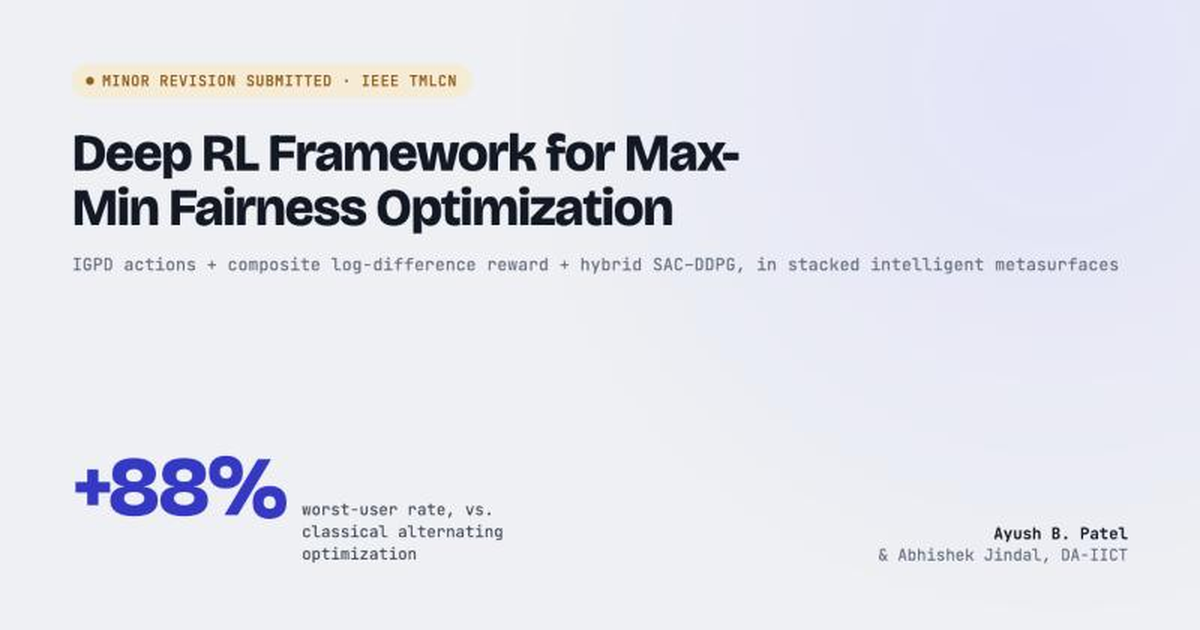
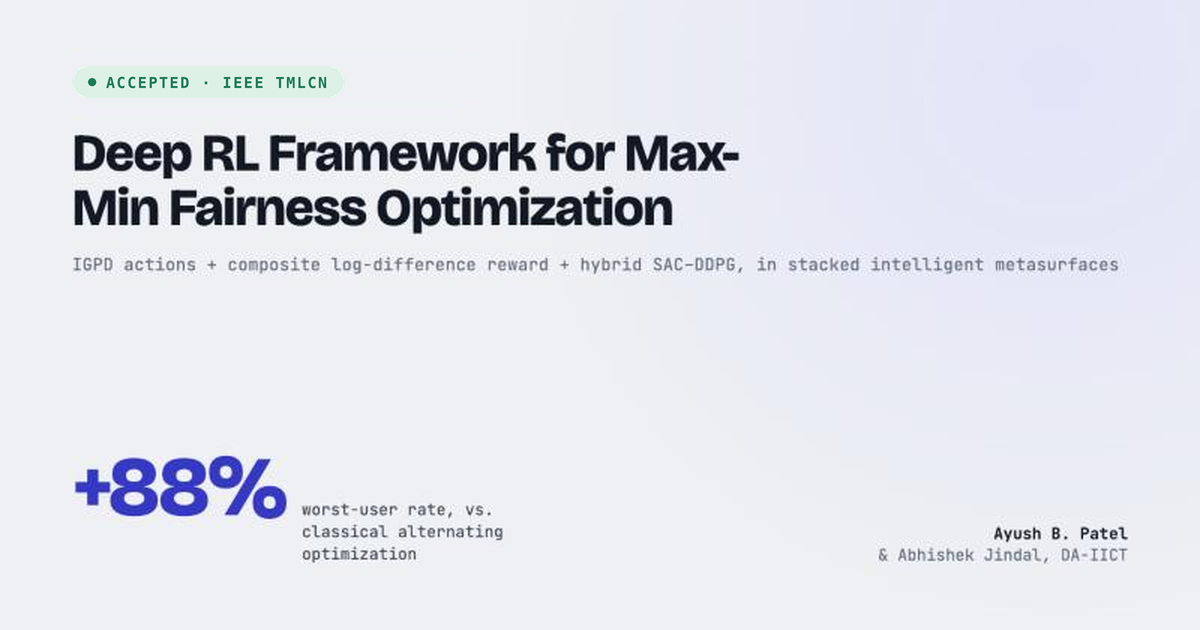
Update paper status: accepted at IEEE TMLCN

Changed region(s): [[0.0617, 0.0905, 0.4008, 0.1508]]

diff --git a/docs/index.html b/docs/index.html
@@ -4,15 +4,15 @@
 <meta charset="UTF-8">
 <meta name="viewport" content="width=device-width, initial-scale=1">
 <title>Max-Min Fairness RL</title>
-<meta name="description" content="A deep RL framework for max-min fairness in stacked intelligent metasurfaces — IGPD actions, a composite log-difference reward, and a hybrid SAC-DDPG actor, improving worst-user rate 88% over classical alternating optimization. Minor revision submitted, IEEE TMLCN.">
+<meta name="description" content="A deep RL framework for max-min fairness in stacked intelligent metasurfaces — IGPD actions, a composite log-difference reward, and a hybrid SAC-DDPG actor, improving worst-user rate 88% over classical alternating optimization. Accepted at IEEE TMLCN.">
 <meta property="og:type" content="article">
 <meta property="og:title" content="Deep RL Framework for Max-Min Fairness Optimization">
-<meta property="og:description" content="A deep RL framework for max-min fairness in stacked intelligent metasurfaces — IGPD actions, a composite log-difference reward, and a hybrid SAC-DDPG actor, improving worst-user rate 88% over classical alternating optimization. Minor revision submitted, IEEE TMLCN.">
+<meta property="og:description" content="A deep RL framework for max-min fairness in stacked intelligent metasurfaces — IGPD actions, a composite log-difference reward, and a hybrid SAC-DDPG actor, improving worst-user rate 88% over classical alternating optimization. Accepted at IEEE TMLCN.">
 <meta property="og:image" content="https://ayush010104.github.io/sim-maxmin-fairness-drl/assets/og-preview.png">
 <meta property="og:url" content="https://ayush010104.github.io/sim-maxmin-fairness-drl/">
 <meta name="twitter:card" content="summary_large_image">
 <meta name="twitter:title" content="Deep RL Framework for Max-Min Fairness Optimization">
-<meta name="twitter:description" content="A deep RL framework for max-min fairness in stacked intelligent metasurfaces — IGPD actions, a composite log-difference reward, and a hybrid SAC-DDPG actor, improving worst-user rate 88% over classical alternating optimization. Minor revision submitted, IEEE TMLCN.">
+<meta name="twitter:description" content="A deep RL framework for max-min fairness in stacked intelligent metasurfaces — IGPD actions, a composite log-difference reward, and a hybrid SAC-DDPG actor, improving worst-user rate 88% over classical alternating optimization. Accepted at IEEE TMLCN.">
 <meta name="twitter:image" content="https://ayush010104.github.io/sim-maxmin-fairness-drl/assets/og-preview.png">
 <link rel="preconnect" href="https://fonts.googleapis.com">
 <link rel="preconnect" href="https://fonts.gstatic.com" crossorigin>
@@ -79,6 +79,12 @@ h1,h2,h3{font-family:var(--display); letter-spacing:-.02em; text-wrap:balance; m
 .fa-tag{font-size:8.5px; font-weight:700; letter-spacing:.04em; text-transform:uppercase; color:var(--accent); background:var(--accent-soft); padding:2px 6px; border-radius:5px; margin:0 6px; vertical-align:middle; white-space:nowrap}
 .paper-link{display:inline-flex; align-items:center; gap:5px; font-family:var(--mono); font-size:11.5px; font-weight:600; color:var(--accent); background:var(--accent-soft); padding:6px 12px; border-radius:999px; text-decoration:none; white-space:nowrap}
 .paper-link:hover{opacity:.82}
+
+.accept-banner{display:flex; align-items:flex-start; gap:12px; margin:22px 0 4px; padding:13px 18px; background:var(--ok-soft); border:1px solid color-mix(in srgb, var(--ok) 32%, transparent); border-left:4px solid var(--ok); border-radius:10px; color:var(--ink); font-size:15px; line-height:1.5}
+.accept-banner strong{color:var(--ok); font-weight:700}
+.accept-banner svg{flex:none; width:20px; height:20px; margin-top:2px; color:var(--ok)}
+.accepted-badge{display:inline-flex; align-items:center; gap:7px; font-family:var(--mono); font-size:12px; font-weight:700; letter-spacing:.02em; color:var(--ok); background:var(--ok-soft); border:1px solid color-mix(in srgb, var(--ok) 38%, transparent); padding:7px 14px; border-radius:999px; white-space:nowrap; box-shadow:0 0 0 4px color-mix(in srgb, var(--ok) 13%, transparent)}
+.accepted-badge svg{width:14px; height:14px; flex:none}
 .authors-card{display:flex; flex-direction:column; align-items:center; gap:3px}
 .authors-card-name{font-family:var(--mono); font-size:14px; color:var(--ink); font-weight:650}
 .authors-card .fa-tag{margin:5px 0}
@@ -235,6 +241,8 @@ footer{padding-block:28px 40px; font-family:var(--mono); font-size:11.5px; color
 <div class="wrap">
   <div class="mark">Ayush B. Patel<span>.</span></div>
 
+  <div class="accept-banner" role="note"><svg viewBox="0 0 20 20" fill="none" stroke="currentColor" stroke-width="2.4" stroke-linecap="round" stroke-linejoin="round" aria-hidden="true"><circle cx="10" cy="10" r="8.2"/><path d="M6.3 10.3l2.6 2.6 4.8-5.2"/></svg><span><strong>Accepted for publication</strong> in IEEE Transactions on Machine Learning in Communications and Networking (TMLCN).</span></div>
+
   <header class="hero">
     <h1>Deep RL Framework for Max-Min Fairness Optimization</h1>
     <div class="hero-grid">
@@ -246,7 +254,7 @@ footer{padding-block:28px 40px; font-family:var(--mono); font-size:11.5px; color
         <div class="fa-tag">first author</div>
         <div class="authors-card-co">&amp; Abhishek Jindal</div>
         <div class="authors-card-aff">DAIICT</div>
-        <span class="paper-link" style="cursor:default">Minor revision submitted &middot; IEEE TMLCN</span>
+        <span class="accepted-badge"><svg viewBox="0 0 20 20" fill="none" stroke="currentColor" stroke-width="2.4" stroke-linecap="round" stroke-linejoin="round" aria-hidden="true"><circle cx="10" cy="10" r="8.2"/><path d="M6.3 10.3l2.6 2.6 4.8-5.2"/></svg>Accepted &middot; IEEE TMLCN</span>
       </div>
     </div>
   </header>
@@ -572,8 +580,8 @@ footer{padding-block:28px 40px; font-family:var(--mono); font-size:11.5px; color
 
   <!-- ============== CLOSING ============== -->
   <section class="closing">
-    <span class="pill">IEEE TMLCN &middot; minor revision submitted</span>
-    <p>Across extensive simulations, the framework outperformed both classical alternating-optimization solvers and existing DRL baselines by a wide margin, including an 88% improvement in the worst-user rate over the standard optimization approach. The minor revision has been submitted to IEEE Transactions on Machine Learning in Communications and Networking.</p>
+    <span class="pill">IEEE TMLCN &middot; accepted</span>
+    <p>Across extensive simulations, the framework outperformed both classical alternating-optimization solvers and existing DRL baselines by a wide margin, including an 88% improvement in the worst-user rate over the standard optimization approach. The paper has been accepted for publication in IEEE Transactions on Machine Learning in Communications and Networking.</p>
   </section>
 
   <footer>© 2026 Ayush Brijesh Patel · Deep RL for Max-Min Fairness</footer>
